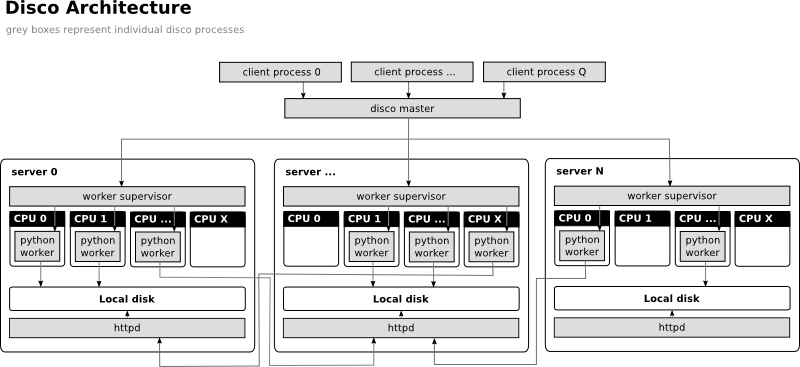
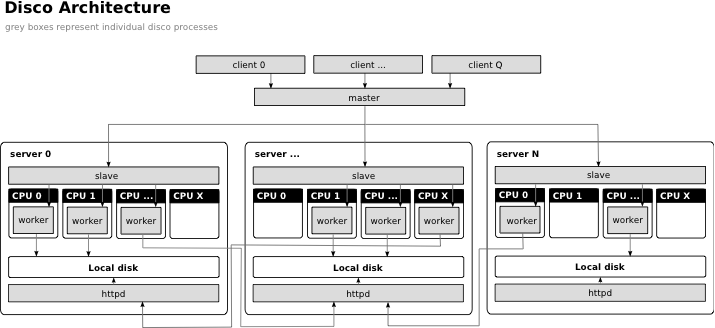
docs: update disco architecture

diff --git a/doc/overview.rst b/doc/overview.rst
@@ -8,32 +8,26 @@ Technical Overview
 
 Disco is based on the master-slave architecture.
 
- * **Disco master** receives jobs from clients,
-   adds them to the job queue, and runs them in the cluster when CPUs
-   become available.
+ * The :term:`master` receives :term:`jobs <job>`, adds them to the job queue,
+   and runs them in the cluster when nodes become available.
 
- * **Client processes** are Python programs that submit jobs to the
-   master using the :func:`disco.job` function.
+ * :term:`Client` programs submit jobs to the master.
 
- * A **worker supervisor** is started automatically by the master on each node
-   in the cluster. Its responsibility is to spawn and monitor all Python worker
-   processes that run on that particular node.
+ * :term:`Slaves <slave>` are started by the master on each node in the cluster.
+   They spawn and monitor all processes that run on their respective nodes.
 
- * **Python workers** take the user-specified :term:`job functions`, run them
-   with the specified input, and write output to result files. As the result,
-   they send addresses of the result files to the master through their
-   supervisor.
+ * :term:`Workers <worker>` perform job :term:`tasks <task>`.
+   The locations of their output results are sent to the master.
 
- * Input files are accessed via HTTP, unless Python worker runs on the same node
-   where an input file is located, in which case it will be read
-   directly from the disk. To be able to access input files on remote
-   nodes, a **httpd** daemon (web server), runs on each node. Disco
-   master tries to maintain *data locality* by scheduling tasks on the
-   same nodes where their inputs can be found.
+ * Once files are stored in the Disco cluster,
+   Disco tries to maintain :term:`data locality` by scheduling tasks
+   which use those files as input on the same nodes that they are stored on.
+   Disco runs an HTTP server on each node so that data can be accessed remotely,
+   when a worker cannot be run on the same node that its input is located.
 
-Each map or reduce instance is given exclusive access to a CPU while
-it executes. This means that in a cluster with *N* CPUs, at most *N*
-Disco tasks can run in parallel.
+Users can limit the number of workers run in parallel on each node.
+Thus, users can easily designate the cluster to run as many tasks
+as there are available CPUs, disks, or any other number.
 
 If high availability of the system is a concern, CPUs in the cluster can
 be partitioned amongst arbitrary many Disco masters. This way several

diff --git a/doc/glossary.rst b/doc/glossary.rst
@@ -4,6 +4,9 @@ Glossary
 
 .. glossary::
 
+   client
+        The program which submits a :term:`job` to the :term:`master`.
+
    conjunctive normal form
         See `conjunctive normal form <http://en.wikipedia.org/wiki/Conjunctive_normal_form>`_.
 
@@ -11,6 +14,14 @@ Glossary
         An arbitrary file stored in :ref:`DDFS`.
 
         See also :ref:`blobs`.
+
+   data locality
+        Performing computation over a set of data near where the data is located.
+        Disco preserves *data locality* whenever possible,
+        since transferring data over a network can be prohibitively expensive
+        when operating on massive amounts of data.
+
+        See `locality of reference <http://en.wikipedia.org/wiki/Locality_of_reference>`_.
 
    DDFS
         See :ref:`DDFS`.
